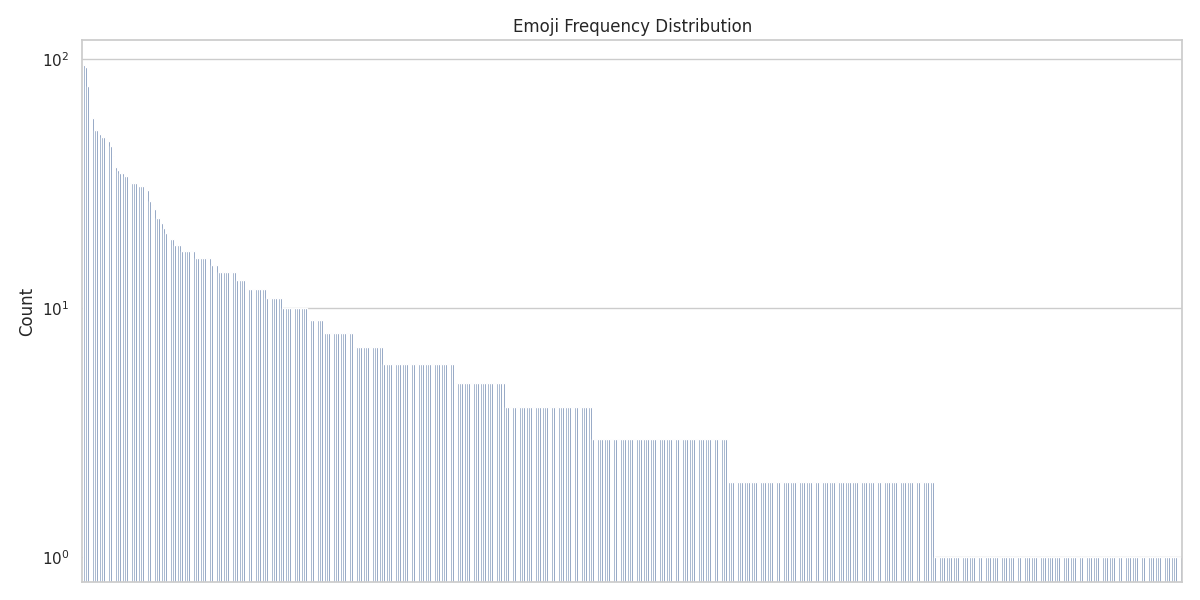
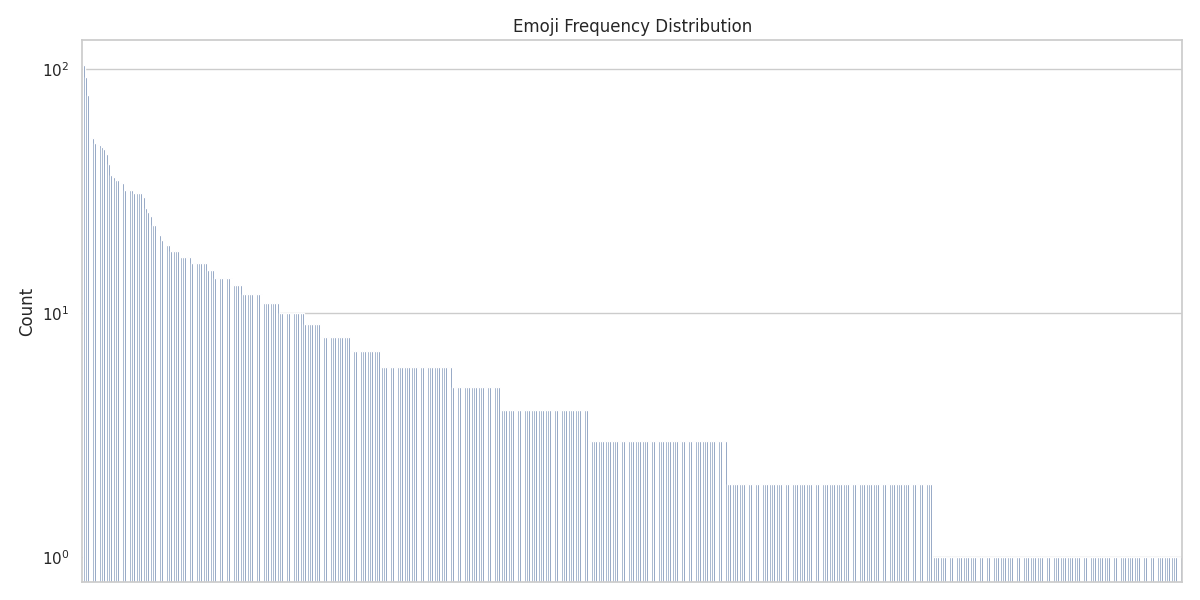
Add reject_list.txt and update preprocessing.py

diff --git a/preprocessing/preprocessing.py b/preprocessing/preprocessing.py
@@ -47,10 +47,16 @@ def extract_continuous_emojis(text):
     return matches
 
 
+reject_list = open("emoji_dataset/reject_list.txt", "r").read().splitlines()
+reject_pattern = '[' + ''.join(reject_list) + ']'
+
+
 def postprocess(text):
+    text = re.sub(reject_pattern, '', text)
     text = re.sub(r"\ufffd", "", text)
     text = re.sub(r"https?://\S+|www\.\S+", "", text)
     text = re.sub(r"^[\s,。、，]+|[\s,。、，]+$", "", text)
+
     return text
 
 
@@ -129,6 +135,10 @@ emoji_counter = Counter()
 for text in dataset:
     emoji_counter.update(text['output'])
 print(emoji_counter)
+
+# for k, v in emoji_counter.items():
+#     if v == 2:
+#         open("emoji_dataset/reject_list.txt", "a").write(k + "\n")
 
 print("Plotting...")
 input_lengths = [len(d['input']) for d in dataset]
